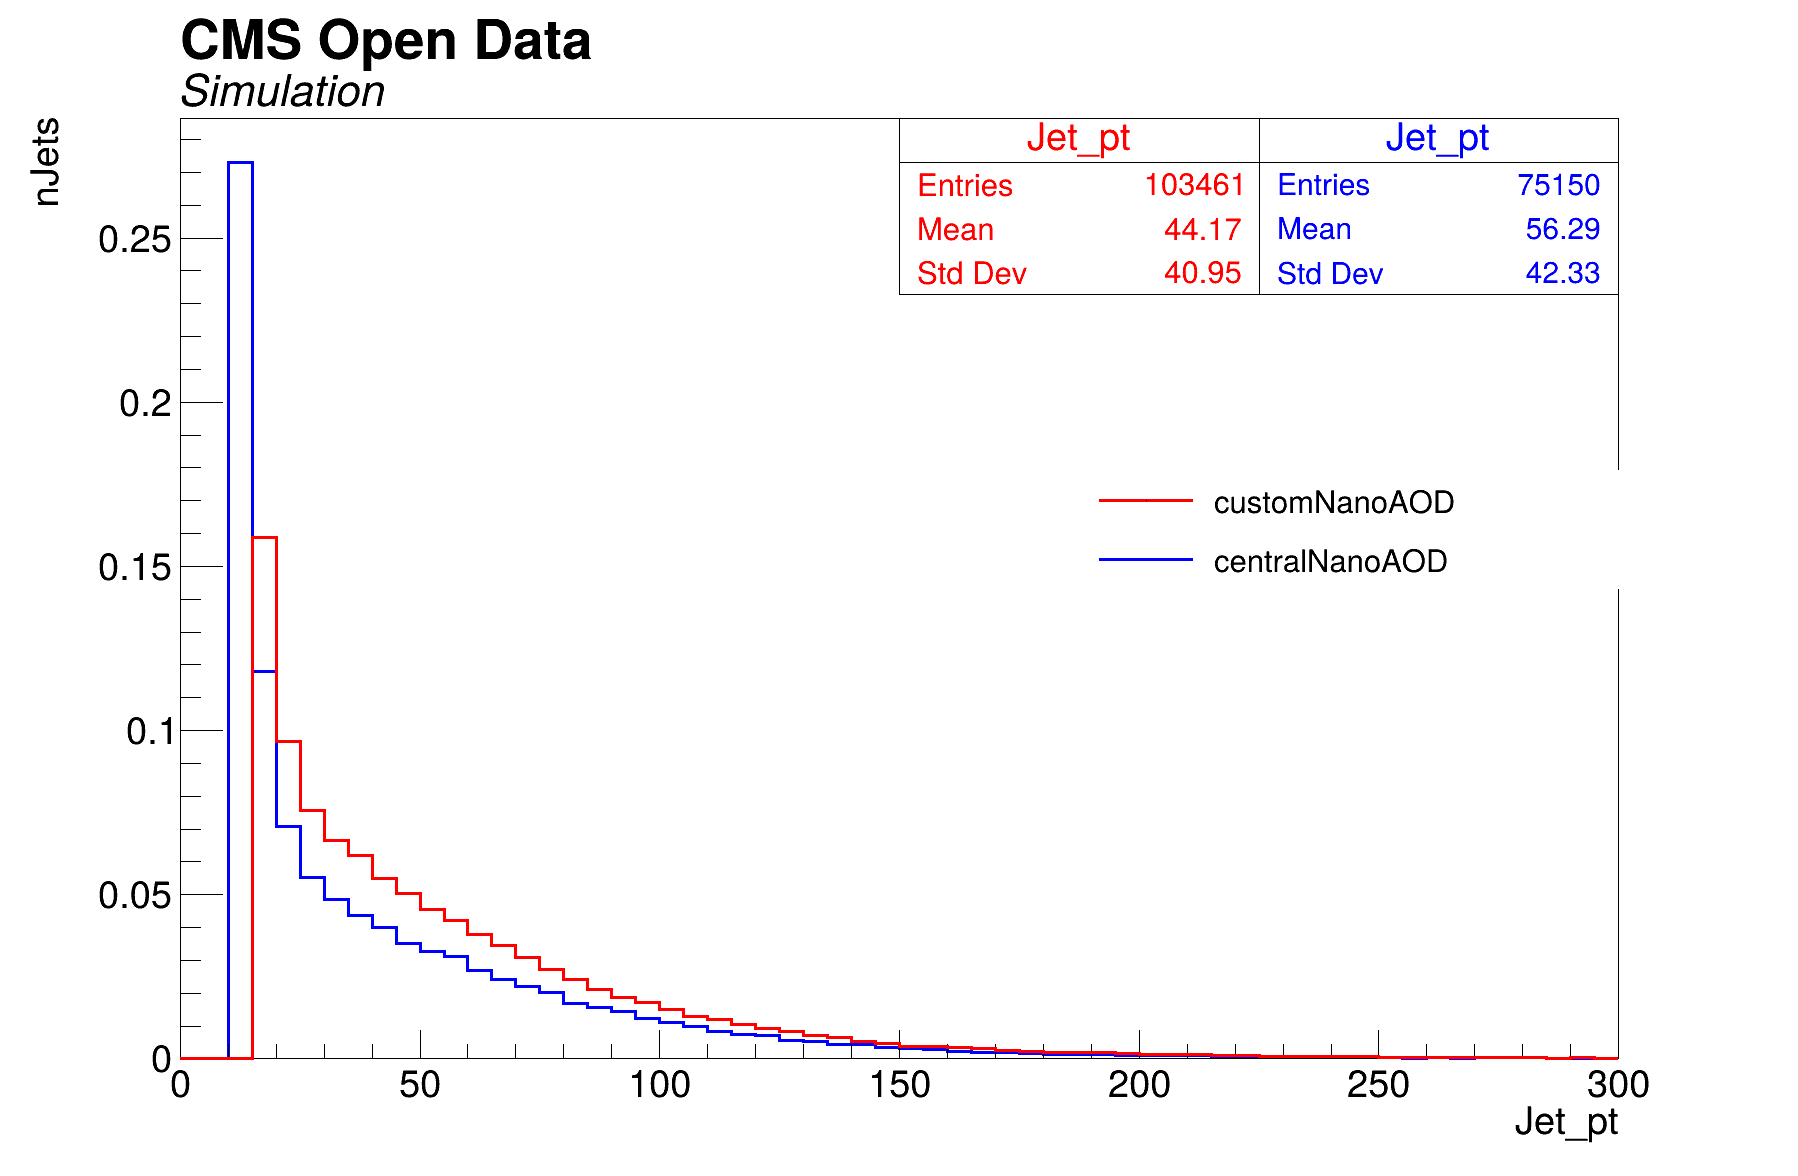
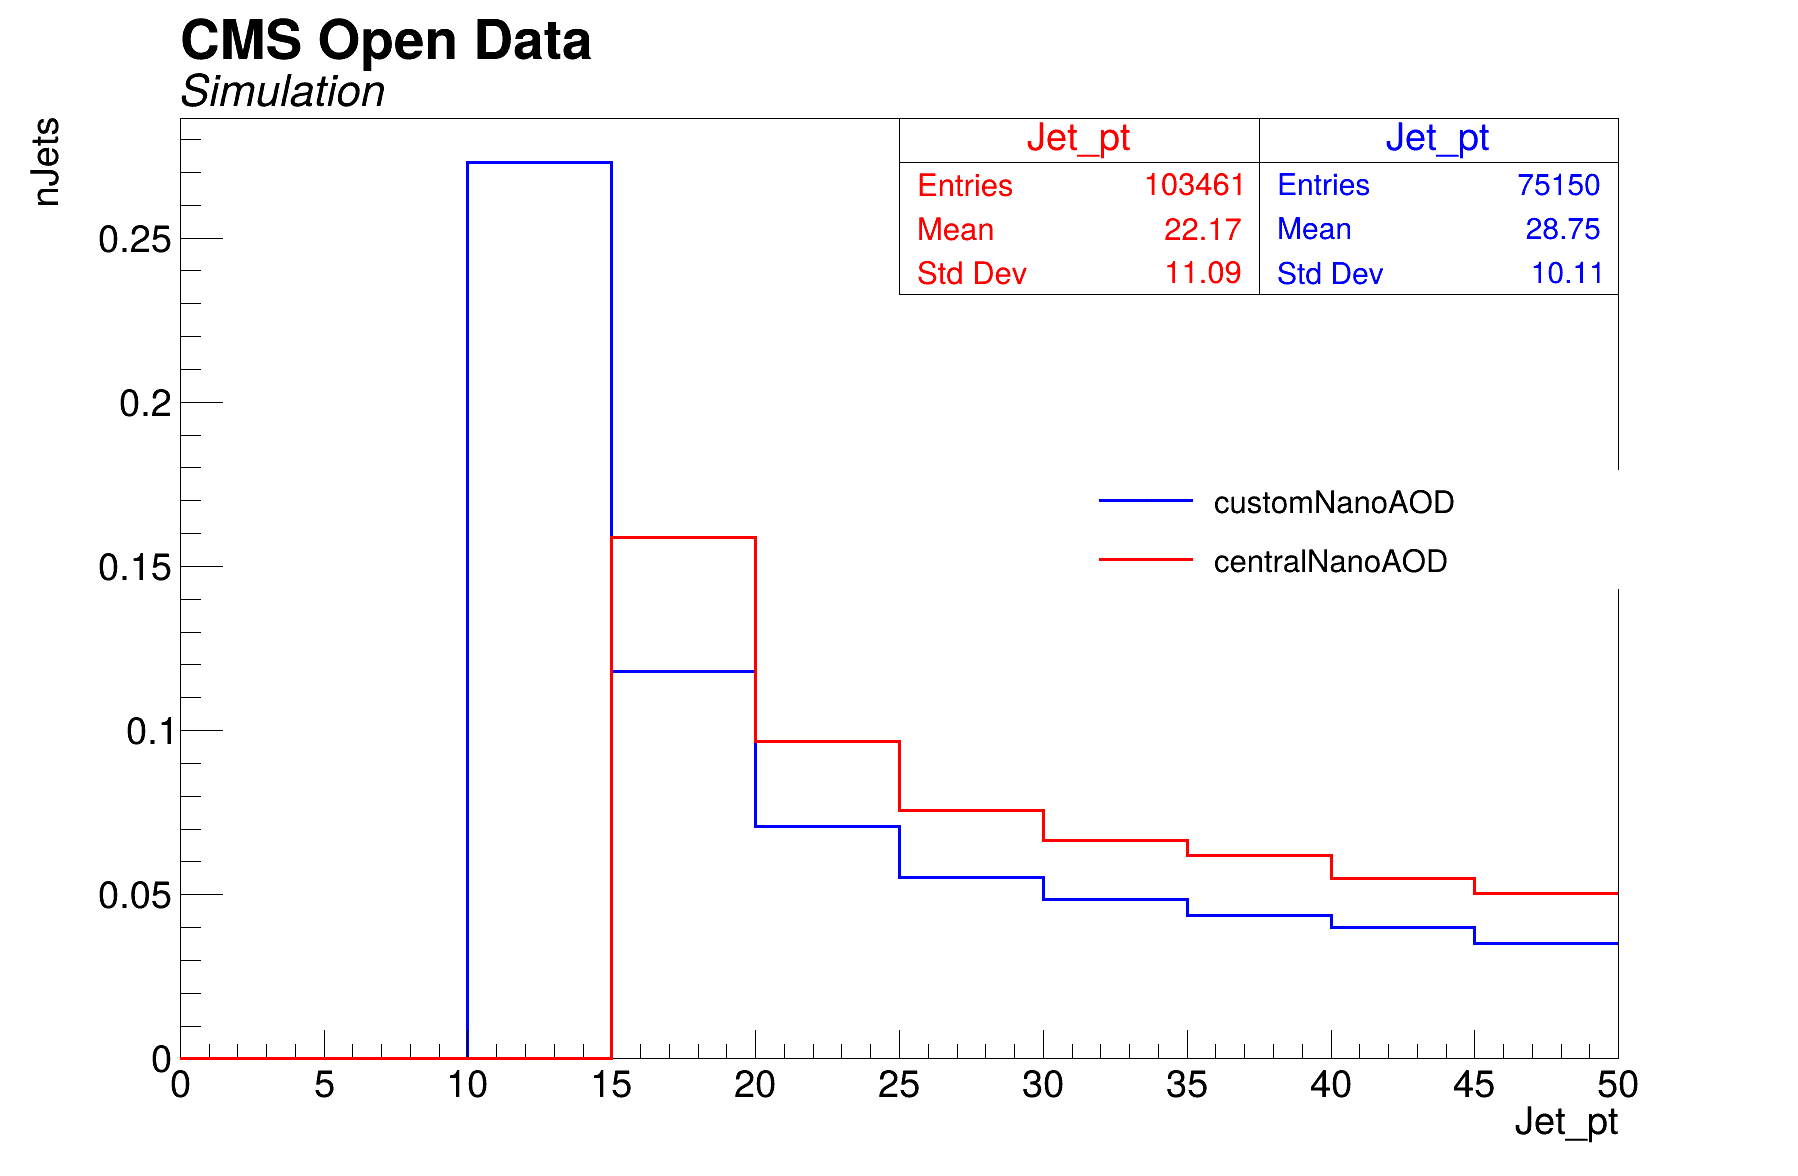
Added scripts to produce hists and overlays

diff --git a/SoftCharmTagging/AnalysisCodes/Plots/overlay.C b/SoftCharmTagging/AnalysisCodes/Plots/overlay.C
@@ -90,8 +90,8 @@ void overlay(){
   TCanvas *c1 = new TCanvas("c1","CMS Open Data", 1800, 1200);
   // Legend
   TLegend *lg1 = new TLegend(0.6, 0.5, 0.9, 0.6,NULL,"NDC");
-  lg1->AddEntry(h1,"customNanoAOD","lp");
-  lg1->AddEntry(h5,"centralNanoAOD","lf");
+  lg1->AddEntry(h5,"customNanoAOD","lp");
+  lg1->AddEntry(h1,"centralNanoAOD","lf");
   h1->Draw("hist");
   gPad->Update();
   TPaveStats* stats1 = (TPaveStats*)h1->FindObject("stats");
@@ -118,14 +118,14 @@ void overlay(){
   // Plot2: Jet_pt
   decorate(h2, kRed+0, 3);
   decorate(h6, kBlue+0, 3);
-  h2->GetXaxis()->SetRangeUser(0, 300);
-  h6->GetXaxis()->SetRangeUser(0, 300);
+  h2->GetXaxis()->SetRangeUser(0, 50);
+  h6->GetXaxis()->SetRangeUser(0, 50);
   TCanvas *c2 = new TCanvas("c2","CMS Open Data", 1800, 1200);
   // Legend
   TLegend *lg2 = new TLegend(0.6, 0.5, 0.9, 0.6,NULL,"NDC");
   decLegend(lg2,0.0285,""); 
-  lg2->AddEntry(h2,"customNanoAOD","lp");
-  lg2->AddEntry(h6,"centralNanoAOD","lf");
+  lg2->AddEntry(h6,"customNanoAOD","lp");
+  lg2->AddEntry(h2,"centralNanoAOD","lf");
   h6->Draw("hist");
   gPad->Update();
   TPaveStats* stats3 = (TPaveStats*)h6->FindObject("stats");
@@ -152,8 +152,8 @@ void overlay(){
   // Legend
   TLegend *lg3 = new TLegend(0.37, 0.2, 0.625, 0.3,NULL,"NDC");
   decLegend(lg1,0.0285,""); 
-  lg3->AddEntry(h3,"customNanoAOD","lp"); 
-  lg3->AddEntry(h7,"centralNanoAOD","lf");
+  lg3->AddEntry(h7,"customNanoAOD","lp"); 
+  lg3->AddEntry(h3,"centralNanoAOD","lf");
   h3->Draw("hist");
   gPad->Update();
   TPaveStats* stats5 = (TPaveStats*)h3->FindObject("stats");
@@ -181,8 +181,8 @@ void overlay(){
   // Legend
   TLegend *lg4 = new TLegend(0.37, 0.2, 0.625, 0.3,NULL,"NDC");
   decLegend(lg1,0.0285,"");
-  lg4->AddEntry(h4,"customNanoAOD","lp");
-  lg4->AddEntry(h8,"centralNanoAOD","lf");
+  lg4->AddEntry(h8,"customNanoAOD","lp");
+  lg4->AddEntry(h4,"centralNanoAOD","lf");
   h8->Draw("hist");
   gPad->Update();
   TPaveStats* stats7 = (TPaveStats*)h8->FindObject("stats");
